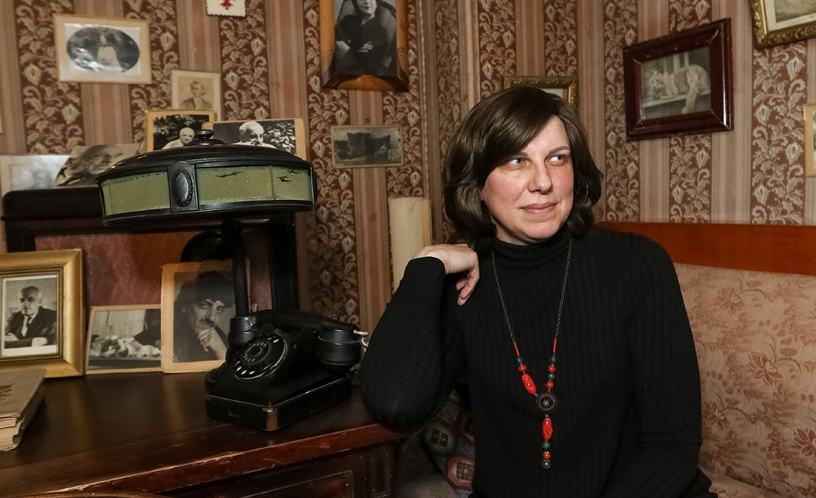
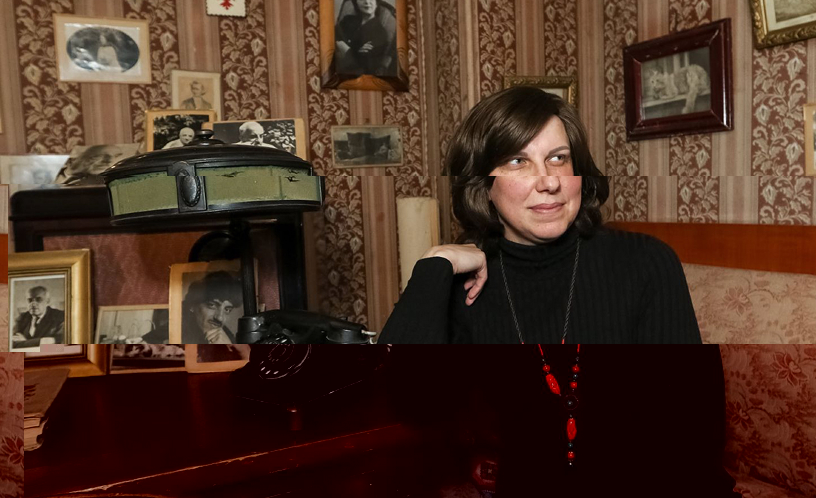
refactor: updated layout and added component to page.test.tsx, resolved comments

diff --git a/app/[lang]/layout.tsx b/app/[lang]/layout.tsx
@@ -70,13 +70,13 @@ export default async function RootLayout({ children, params }: RootLayoutParams)
                   marginRight: 'auto',
                   width: '100%',
                   flex: '1',
-                  [theme.breakpoints.down('sm')]: {
+                  [theme.breakpoints.down('md')]: {
                     gridTemplateColumns: 'repeat(8, 1fr)',
                     paddingLeft: '24px',
                     paddingRight: '24px',
                     gap: '20px'
                   },
-                  [theme.breakpoints.down('xs')]: {
+                  [theme.breakpoints.down('sm')]: {
                     gridTemplateColumns: 'repeat(4, 1fr)',
                     gap: '16px'
                   }
@@ -85,7 +85,7 @@ export default async function RootLayout({ children, params }: RootLayoutParams)
                 <Box sx={{ gridColumn: '1 / -1' }}>
                   <Header />
                 </Box>
-                <Box sx={{ gridColumn: '1 / -1' }}>{children}</Box>
+                <Box sx={{ display: 'grid', gridTemplateColumns: 'subgrid', gridColumn: '1 / -1' }}>{children}</Box>
               </Container>
               <Footer />
             </Box>

diff --git a/app/[lang]/page.test.tsx b/app/[lang]/page.test.tsx
@@ -14,9 +14,17 @@ jest.mock('~/components/FoundationFounders/FoundationFounders', () => {
   return MockFoundationFounders;
 });
 
+jest.mock('~/components/our-mission/OurMission', () => {
+  const MockOurMission = () => <div>Our mission</div>;
+  MockOurMission.displayName = 'MockOurMission';
+  return MockOurMission;
+});
+
 describe('Home component', () => {
   it('should render Home component correctly', async () => {
     render(await Home());
+
+    expect(screen.getByText(/Our mission/i)).toBeInTheDocument();
     expect(screen.getByText(/Liatoshynsky office/i)).toBeInTheDocument();
     expect(screen.getByText(/Foundation founders/i)).toBeInTheDocument();
   });

diff --git a/app/[lang]/page.tsx b/app/[lang]/page.tsx
@@ -3,10 +3,12 @@ import React from 'react';
 import LiatoshynskyOffice from '~/components/Liatoshynsky-office/LiatoshynskyOffice';
 
 import FoundationFounders from '~/shared/components/FoundationFounders/FoundationFounders';
+import OurMission from '~/shared/components/our-mission/OurMission';
 
 export default async function Home() {
   return (
     <>
+      <OurMission />
       <LiatoshynskyOffice />
       <FoundationFounders />
     </>

diff --git a/app/shared/components/Liatoshynsky-office/LiatoshynskyOffice.styles.ts b/app/shared/components/Liatoshynsky-office/LiatoshynskyOffice.styles.ts
@@ -1,5 +1,6 @@
 export const styles = {
   mainContainer: {
+    gridColumn: '1 / -1',
     maxWidth: '1582px',
     width: { xs: '100vw', sm: '100%' },
     display: 'flex',

diff --git a/app/shared/components/FoundationFounders/FoundationFounders.styles.ts b/app/shared/components/FoundationFounders/FoundationFounders.styles.ts
@@ -1,5 +1,6 @@
 export const styles = {
   container: {
+    gridColumn: '1 / -1',
     position: 'relative',
     left: '50%',
     right: '50%',
